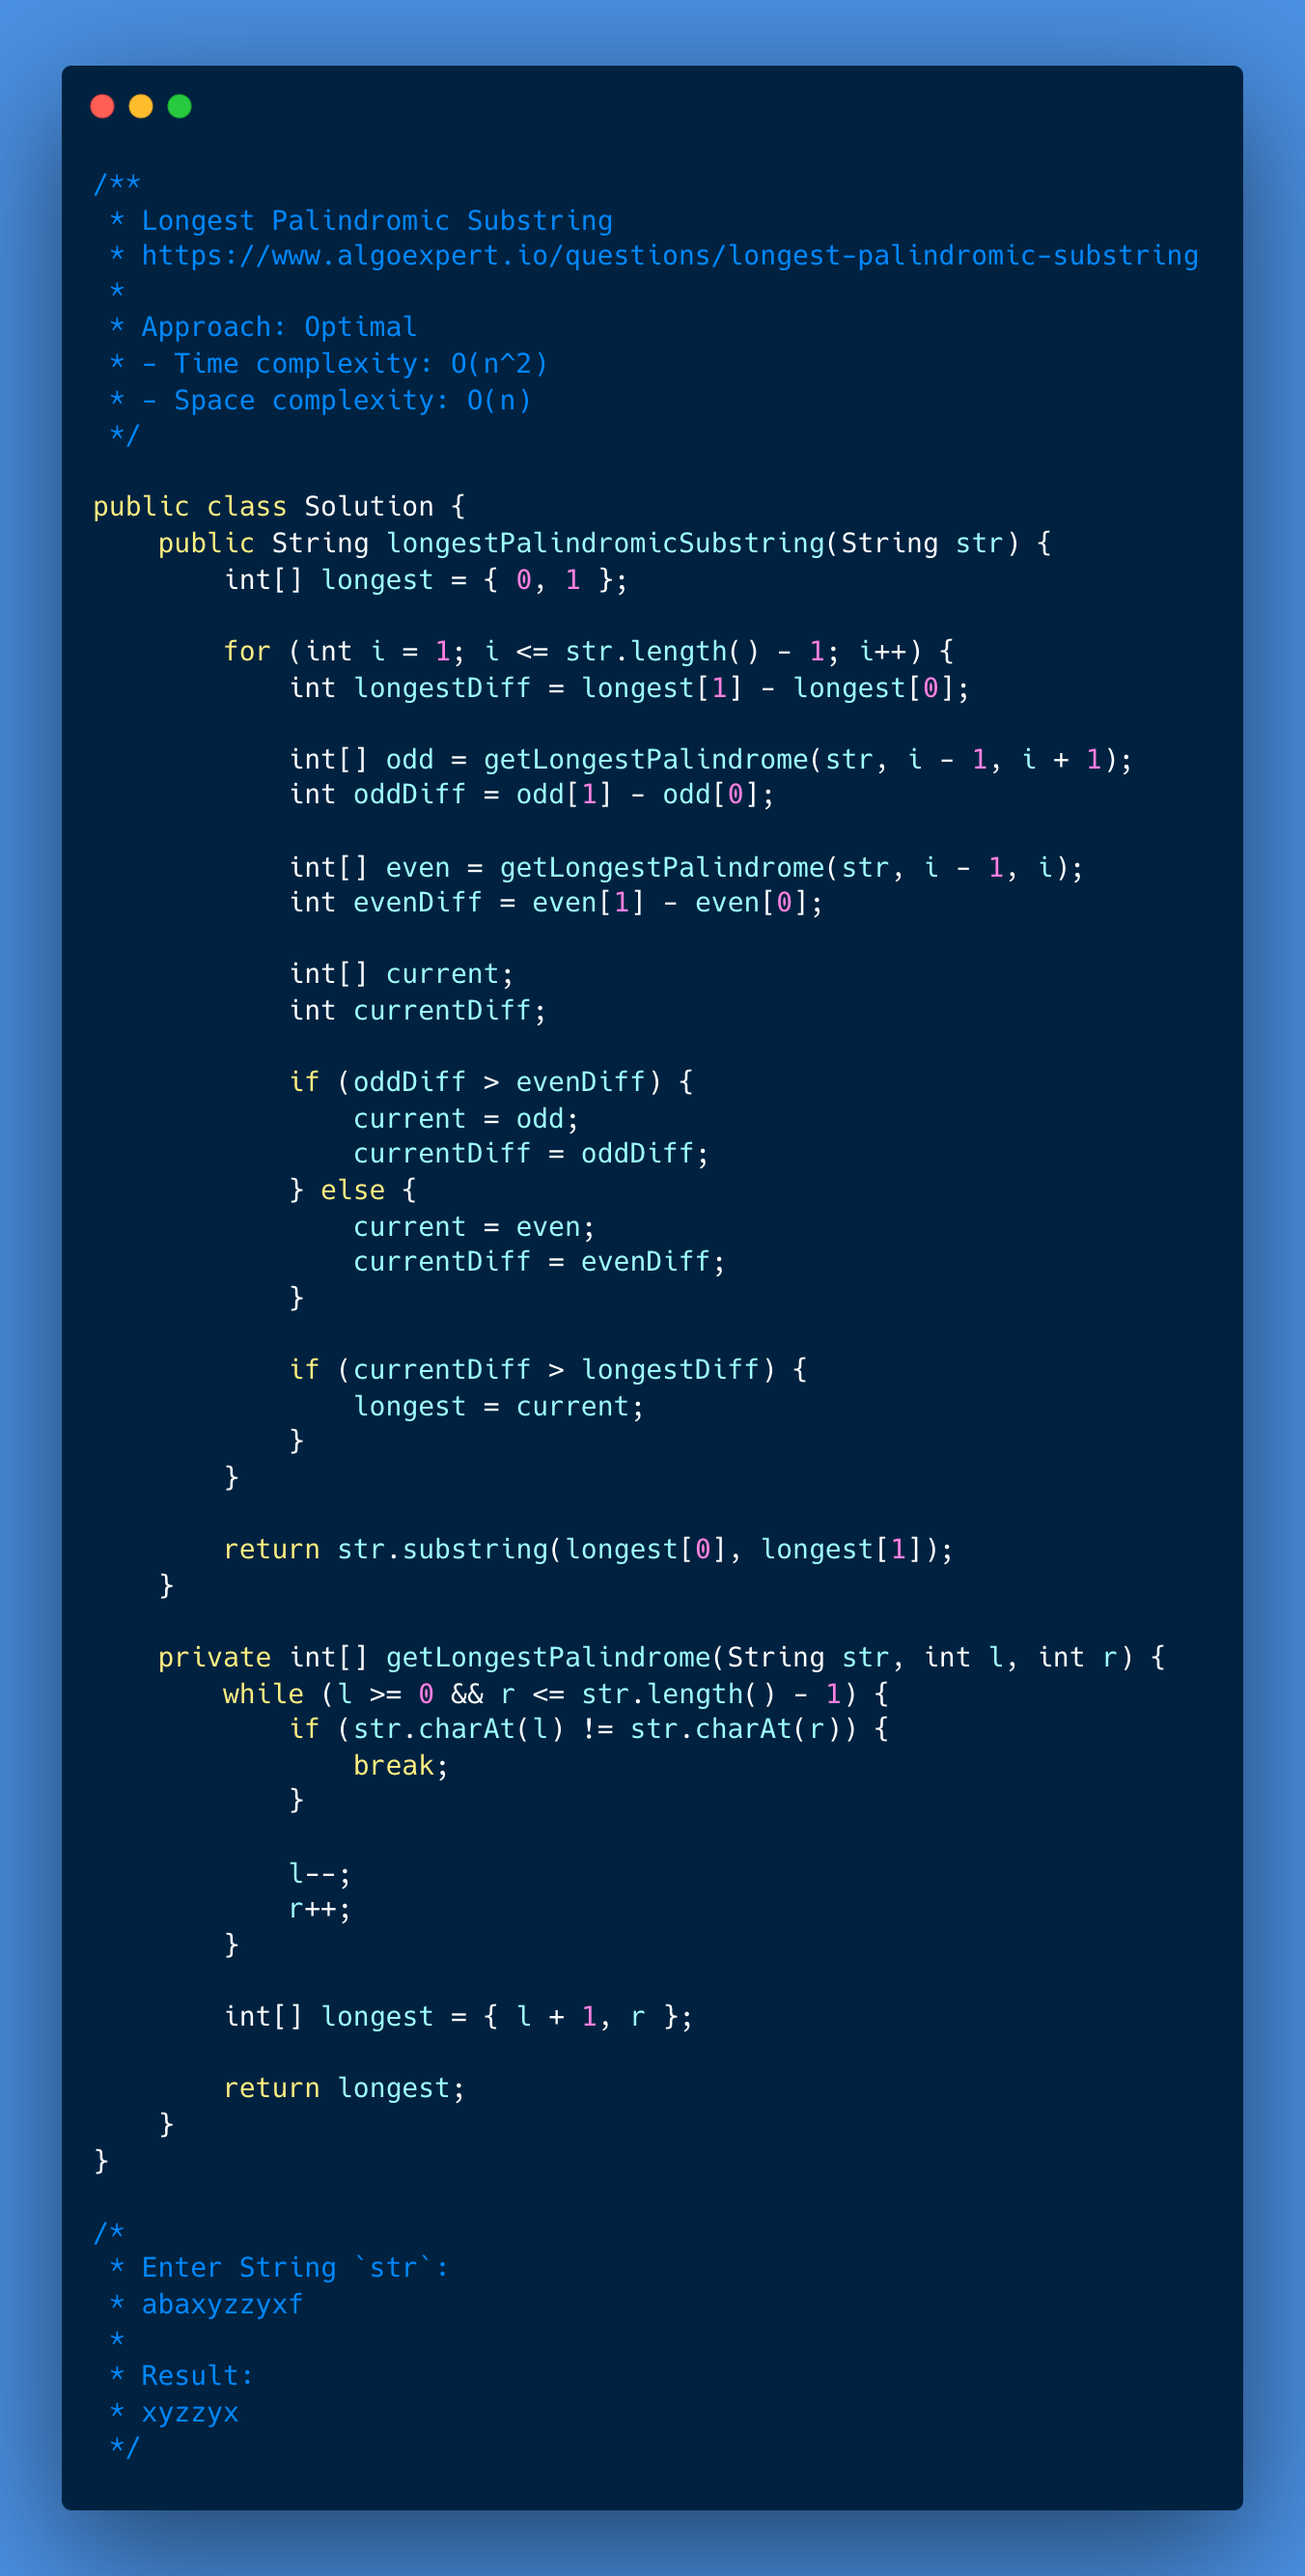
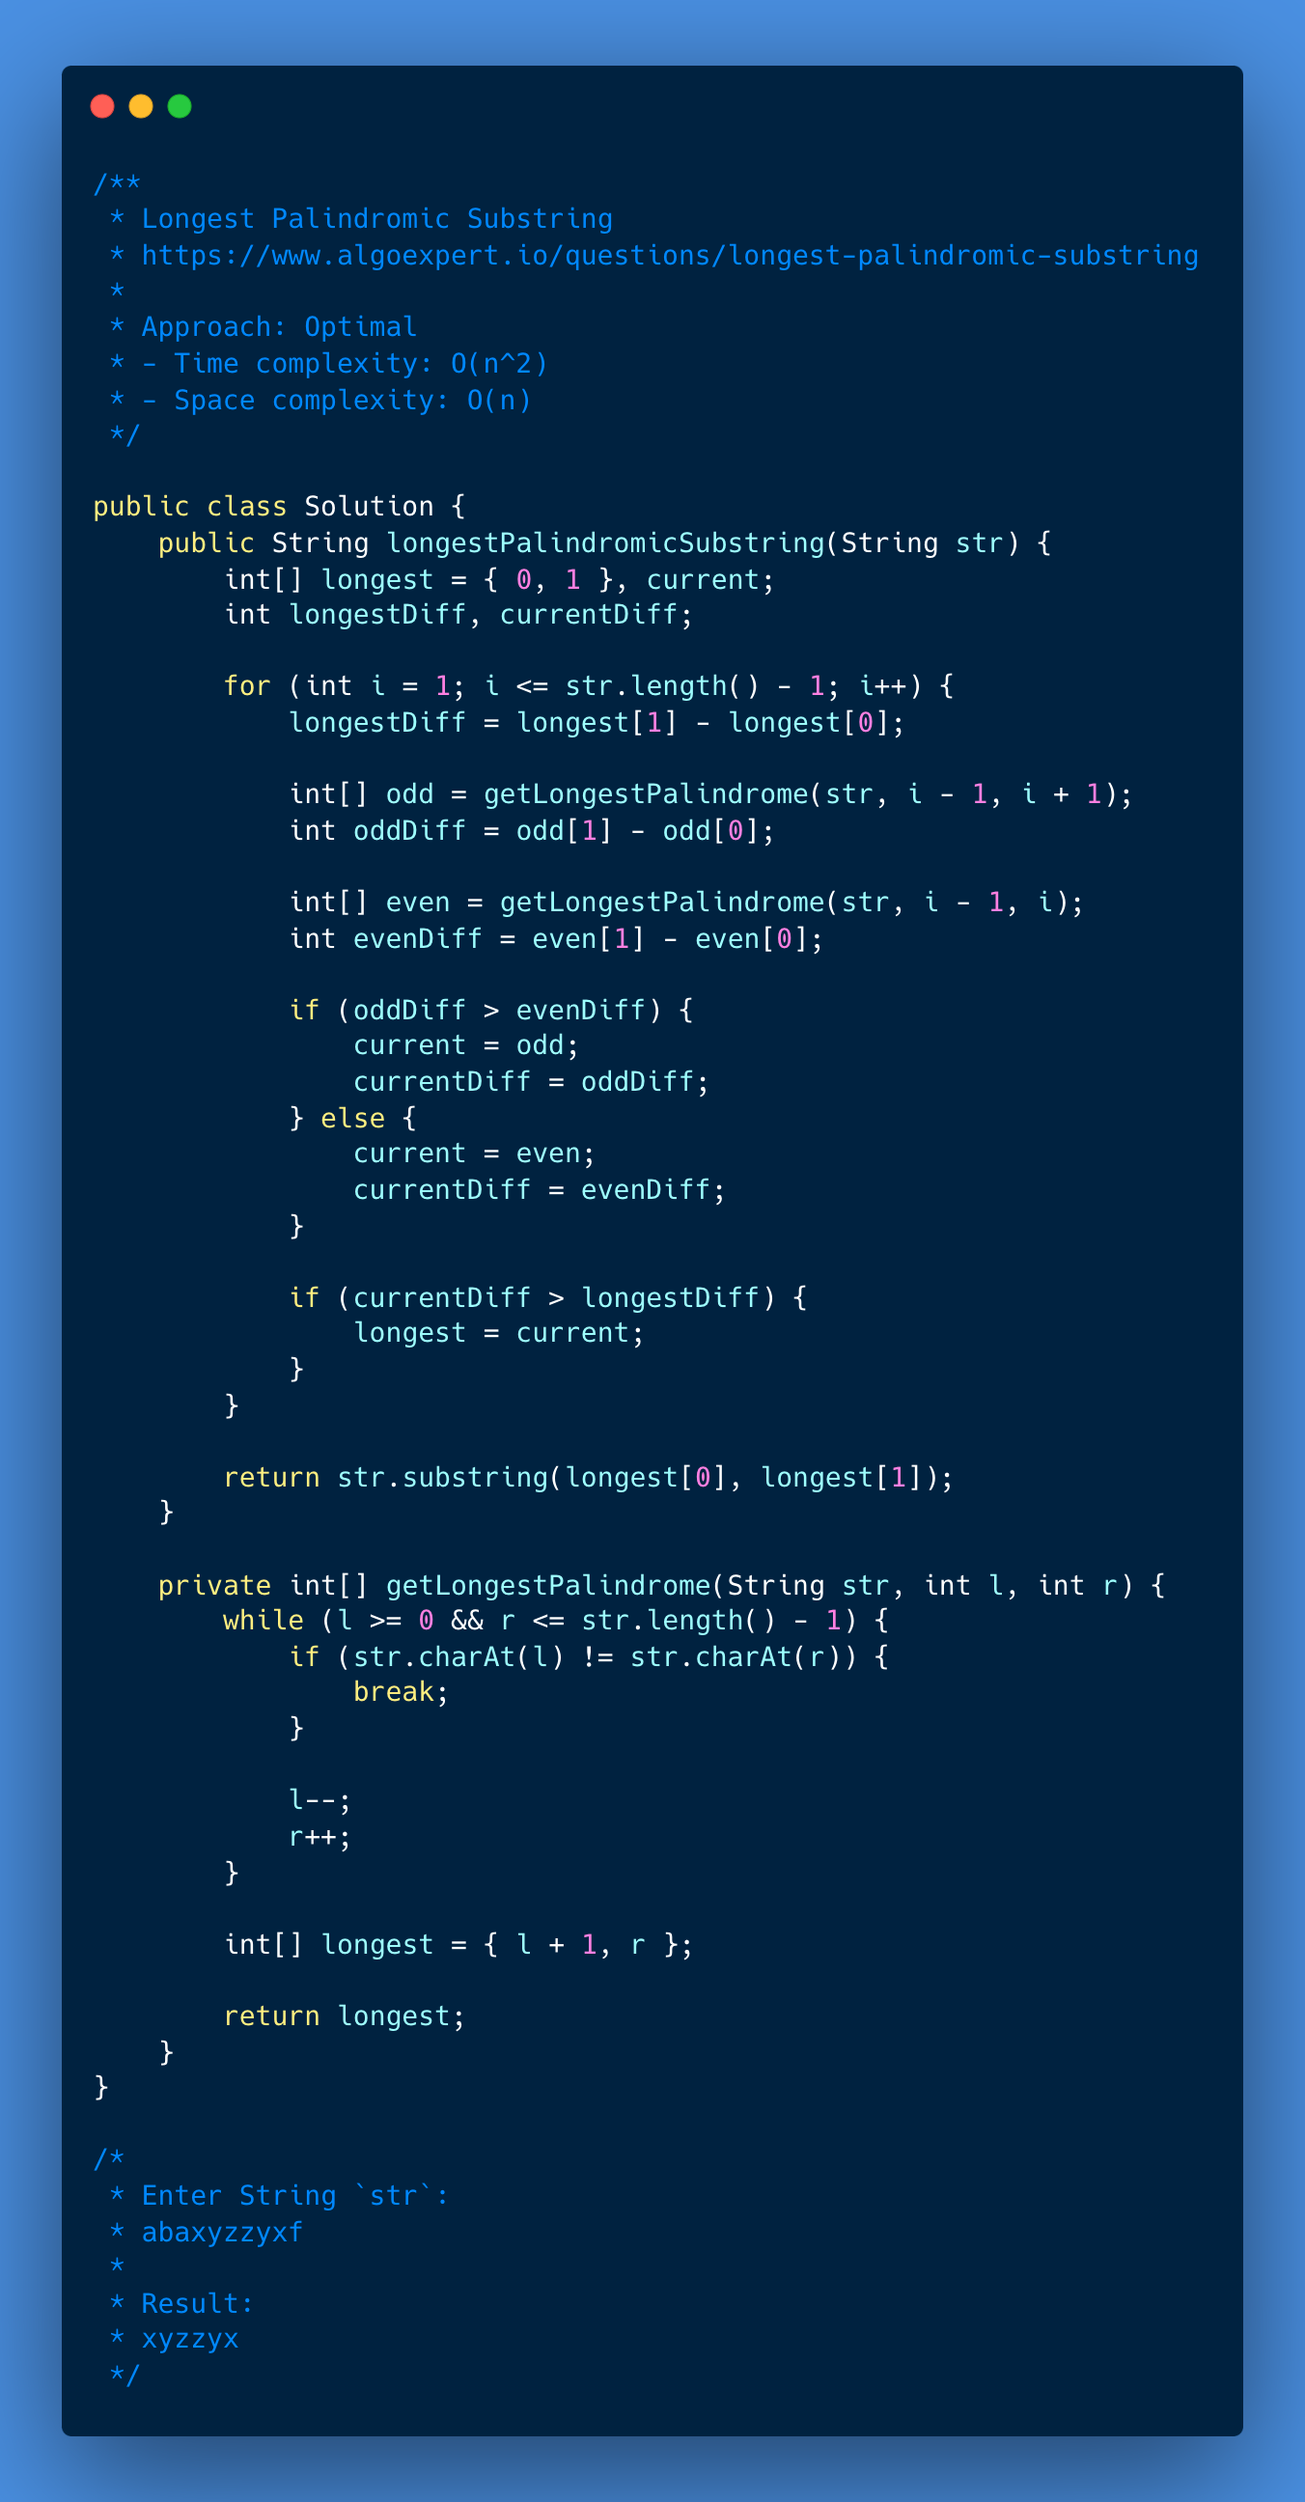
Solve Problem: Longest Palindromic Substring

diff --git a/159-longest-palindromic-substring/002-solution/Solution.java b/159-longest-palindromic-substring/002-solution/Solution.java
@@ -9,19 +9,17 @@
 
 public class Solution {
     public String longestPalindromicSubstring(String str) {
-        int[] longest = { 0, 1 };
+        int[] longest = { 0, 1 }, current;
+        int longestDiff, currentDiff;
 
         for (int i = 1; i <= str.length() - 1; i++) {
-            int longestDiff = longest[1] - longest[0];
+            longestDiff = longest[1] - longest[0];
 
             int[] odd = getLongestPalindrome(str, i - 1, i + 1);
             int oddDiff = odd[1] - odd[0];
 
             int[] even = getLongestPalindrome(str, i - 1, i);
             int evenDiff = even[1] - even[0];
-
-            int[] current;
-            int currentDiff;
 
             if (oddDiff > evenDiff) {
                 current = odd;
